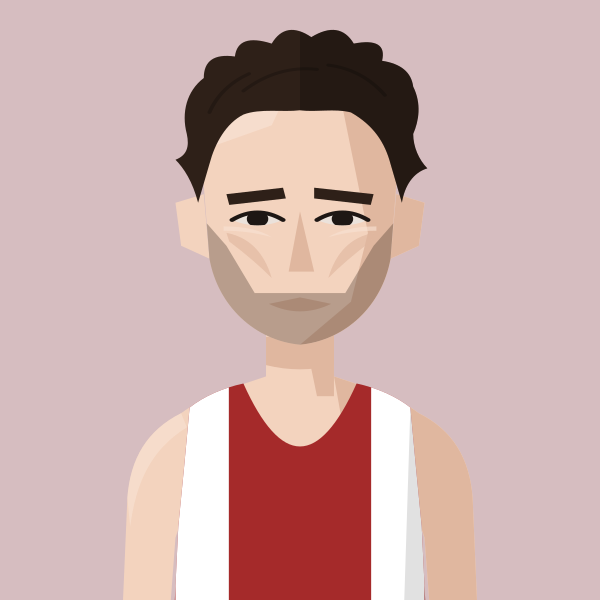
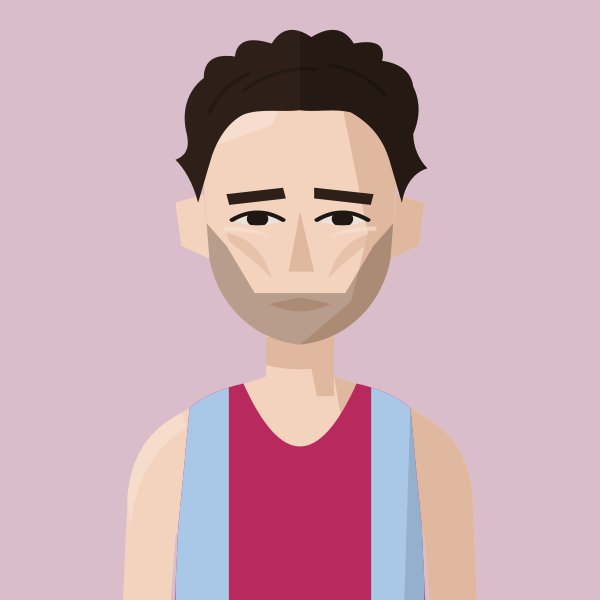
Dorking & Mole Valley kit: raspberry with pale sky-blue side panels (was brick red/white)
Claude-Session: https://claude.ai/code/session_01MgmDWhFqnSSnP4iBLKXUZC

Changed region(s): [[0.27, 0.63, 0.72, 1.0]]

diff --git a/files/index.html b/files/index.html
@@ -556,7 +556,7 @@ const ClubVest=({club,size=20})=>{
     case'AFD':return<><path d={p} fill="#dc2626"/><clipPath id={id}><path d={p}/></clipPath><g clipPath={`url(#${id})`}><rect x="14" y="0" width="3" height="20" fill="#fff"/><rect x="0" y="6" width="20" height="3" fill="#228b22"/></g></>;
     case'SUR':return<><path d={p} fill="#fff"/><clipPath id={id}><path d={p}/></clipPath><g clipPath={`url(#${id})`}><rect x="0" y="7" width="20" height="1" fill="#1a1a1a"/><rect x="0" y="8" width="20" height="3" fill="#3b82f6"/><rect x="0" y="11" width="20" height="1" fill="#1a1a1a"/></g></>;
     case'MIT':return<><path d={p} fill="#2563eb"/><clipPath id={id}><path d={p}/></clipPath><g clipPath={`url(#${id})`}><rect x="0" y="5" width="20" height="1.5" fill="#fff"/><rect x="0" y="8" width="20" height="3" fill="#fff"/><rect x="0" y="12.5" width="20" height="1.5" fill="#fff"/></g></>;
-    case'DMV':return<><path d={p} fill="#A52A2A"/><clipPath id={id}><path d={p}/></clipPath><g clipPath={`url(#${id})`}><rect x="3" y="0" width="3" height="20" fill="#fff"/><rect x="14" y="0" width="3" height="20" fill="#fff"/></g></>;
+    case'DMV':return<><path d={p} fill="#B82A5E"/><clipPath id={id}><path d={p}/></clipPath><g clipPath={`url(#${id})`}><rect x="3" y="0" width="3" height="20" fill="#A9C8E8"/><rect x="14" y="0" width="3" height="20" fill="#A9C8E8"/></g></>;
     case'REI':return<><path d={p} fill="#dc2626"/><clipPath id={id}><path d={p}/></clipPath><g clipPath={`url(#${id})`}><polygon points="0,0 6,0 20,14 20,20 14,20 0,6" fill="#87CEEB"/></g></>;
     case'STR':return<><path d={p} fill="#f4c430"/><text x="10" y="13" textAnchor="middle" fontSize="9" fontWeight="bold" fill="#1a1a1a">S</text></>;
     case'W4H':return<><path d={p} fill="#f4c430"/><clipPath id={id}><path d={p}/></clipPath><g clipPath={`url(#${id})`}><rect x="0" y="8" width="20" height="4" fill="#00CED1"/></g></>;
@@ -672,7 +672,7 @@ return m;})();
 const portraitFile=(name,club)=>{const k=normalizeNameForCompare(name||'').replace(/\s*\(([^)]*)\)$/,(m,c)=>CLUBS[c.toUpperCase()]?'':m);const a=PORTRAITS[k];if(a&&a.club===club)return a.file;const b=PORTRAITS[k+'@'+club];return b?b.file:null;};
 // Athlete header figure: superstar portrait if we have one, else a grey runner in the club vest, else the plain vest icon
 // Changes whenever any portrait changes (set by tools/build_og.py), so browsers fetch fresh images instead of old cached ones
-const PORTRAIT_V='dd9aca5c';const PORTRAIT_WOMEN='abbey-brooke,abbie-bulbulian,alex-gandee,alexa-parker,alexandra-barbour,alice-bridger-morales,alice-crane,alice-martin,alice-smith,amy-clements,anika-schwarze-chintapatla,ava-mcandie,becky-briggs,bethan-goddard,bethanie-murray,betsy-griffiths,billie-mcclosky,caoimhe-nic-fhogartaigh,catherine-bryson,catherine-eastham,catherine-kandie,cathy-ansell,charlotte-griffiths,chloe-tighe,chrissie-wellington,claire-grima,clara-pettit,clare-elms,clare-pauzers,dillan-quinn,dorchie-cockerell,eilidh-hide,elinor-skinner,elizabeth-apsley,elizabeth-stavreski,ella-fennelly,ella-king-powrie,ella-newton,ellie-freeden,eloise-bull,emilie-arnoux,emily-bradley,emily-lowery,emma-gordon,emma-howsham,emma-lord,emma-rowland,evie-warren,felicity-harrison,felicity-hayward,fiona-de-mauny,florence-wiggins,gabby-collison,gabriel-reynolds,gemma-newport,georgie-bruinvels,georgie-furze,georgie-grgec,gina-galbraith,grace-leyland,hannah-english,helena-keenan,holly-nixon,holly-pan,iona-cousland,isabel-bradley,isabel-brinsden,isabelle-pickett,isobel-hodder,jennifer-nandi,jodie-favell,julia-bleasdale,julia-wedmore,juliet-hodder,karen-fenner,karen-xiang,kate-axford,katie-good,katie-snowden,katy-hedgethorne,kitty-shepherd-cross,kristina-popadich,lara-bromilow,lara-mangan,lauren-major,lea-adamson,lisa-bailey,lisa-thomas,lisa-thomas-hw,louise-cooper,lucy-jones,lucy-macalister,lucy-peters,maddie-mastrolonardo,maeve-kenny,margaret-coogan,martina-conner,mary-james,megan-gildea,mimi-corden-lloyd,molly-oconnor,molly-smith,natalie-beadle,natalie-seymour,natasha-lodge,nicola-douglas,nikki-sturzaker,olivia-stillman,pamela-mchutchon,penny-oliver,rebekah-edgar,ruby-carter,ruby-whyte-wilding,ruby-woolfe,samantha-munday,sarah-astin,sarah-grover,sarah-hanley,sarah-holt,sarah-murphy,sarah-palmer,sarah-palmer-ran,sarah-riceman,saron-haileselase,serena-carter,sophie-harris,sophie-tooley,stacey-ward,steph-hewitt,suzie-harvey,suzy-whatmough,teresa-murphy,tilly-heaton,tilly-heaton-bel,vicky-clarke,victoria-barthelmess,victoria-buck';const PORTRAIT_MEN='aaron-wilson,adam-leane,adrian-major,adrien-royer,alan-black,alan-mead,alex-bruce-littlewood,alex-gutteridge,alex-harris,alex-howard,alex-janiaud,alex-lee,alex-lennon,alex-milne,alex-yee,amittai-ben-israel,andrew-green,andrew-penney,andrew-warburton,andy-coley-maud,andy-coley-maud-cc,andy-fyfe,andy-north,andy-paton,andy-weir,angus-lamb,anisse-ismaili,arlo-ludewick,arne-dumez,arthur-peel,ashley-goncalves,barnaby-day,barry-collins,barry-sawyer,ben-clarke,ben-harding,ben-hurley,ben-paviour,ben-pearce,ben-racle,ben-reynolds,ben-scott,benedict-whitby,benjamin-hilson,bernie-ford,bill-kerr,bill-weller,bill-weller-wal,bob-holt,bob-lunnon,bob-rayman,bob-smith,brandon-dewar,brian-gorman,brian-wilder,caleb-hathaway,callum-stewart,cameron-dockerill,cameron-reilly,charles-herrington,charlie-dabbs,charlie-dickinson,charlie-eastaugh,charlie-manning,charlie-pickett,charlie-walker,charlie-wyllie,chris-busaileh,chris-busaileh-hhh,chris-greenwood,chris-keavey,chris-moss,chris-steer,chris-threadgold,christian-lee,christopher-parker,clive-gilby,clive-shippen,colin-high,colin-pearson,conall-mcnally,conall-whelan,dame-dibaba,dan-cliffe,dan-pettitt,daniel-shaw,daniel-wolff,dave-beard,dave-beaver,dave-glassborow,dave-holt,dave-taylor,david-anderson,david-bowers,david-grima,david-north,david-ogden,david-symons,deron-fagan,dick-piotrowski,don-anderson,don-faircloth,don-maclean,doug-maughan,dylan-evans,ed-brewer,ed-gibson,ed-mallett,eddie-herridge,eddie-jodrell,eddie-rolls,edward-chuck,eoin-brady,eoin-molloy,ethan-mccolgan,falilou-kebe,findlay-dyer,finn-johnson,fintan-pearce,frank-tickner,frank-ward,fred-paget,fred-slemeck,freddie-hessian,gary-ribbons,gary-ribbons-ee,gary-staines,gavin-eccles,geoff-biscoe,geoff-jerwood,geoff-north,george-cotton,george-gathercole,george-jackson,george-ogden,gerry-adams,gerry-north,gordon-pearce,graham-macky,harrison-hayman,harry-guttridge,henry-hart,hugo-hewitt,ian-acreman,ian-crowe-wright,ian-ellwood,ian-harkness,indy-barnes,isaac-lutaya,isaac-parker,jack-brotchie,jack-dickson,jack-dormer,jack-hampshire,jack-harrison,jack-hobden,jack-kavanagh,jack-millar,jack-ramm,jack-woods,jacob-brockmann,james-bartram,james-blackwood,james-estall,james-ewing,james-hancock,james-hoad,james-kelly,james-mcmullan,james-murray,james-nutt,james-preston,james-roberts,james-stockings,jamie-crowe,jamie-parkinson,jared-martin,jean-paul-wright,jeff-cunningham,jeremy-dempsey,jermaine-mays,jerry-watson,jim-allchin,jim-rimmer,joe-english,joe-hartley,john-baker,john-bicourt,john-bromley,john-davies,john-dear,john-foss,john-foxall,john-gilbert,john-gladwin,john-hutchins,john-kendall,john-kimaiyo,john-lee,john-lethbridge,john-mather,john-moore,john-roberts,john-sanderson,john-stow,john-sullivan,john-thresher,jon-hobbs,jon-pepper,jon-pepper-slh,jon-phillips,jon-solly,jonathan-cocker,jonathan-collier,jonathan-cornish,jonathan-tipper,jonathon-blackledge,jonny-scott,jordan-weaver,josh-mitchell,josh-snow,josh-trigwell,junior-galley,justin-chaston,kassa-tadesse,keith-newton,kevin-nash,kevin-quinn,kevin-sturman,kieran-barnes,knut-hegvold,knut-hegvold-bel,larry-ryan,lee-lintern,lewis-lloyd,liam-burthem,lionel-mann,lloyd-kempson,luke-caldwell,mack-downie,malachi-byansi,marcello-bizio,marco-mazzotta,mark-anderson,mark-miles,mark-sinclair,mark-tennyson,mark-waller,martin-dent,martin-lake,martin-lewington,martin-shore,mathew-speed,matt-chaston,matt-wood,matthew-edgar,matthew-houchell,matthew-varley,max-bloor,max-heyden,max-milarvie,max-nicholls,michael-baker,michael-mccarthy,mick-woods,mike-beevor,mike-boyle,mike-cummings,mike-farmery,mike-fuller,mike-hayes,mike-kortenray,mike-nouch,monty-hudson,morgan-roberts,neil-chisholm,neil-phillips,neil-speaight,neil-wilson,nic-lukies,nick-acfield,nick-altmann,nick-bester,nick-bester-hhh,nick-goolab,nick-lightfoot,nick-morris,nick-torry,noah-fernandez,norman-stairs,oli-carrington,oliver-fox,oliver-reynolds,oliver-young,ollie-foote,ollie-garrod,olly-buck,owen-hind,paddy-roddy,pancho-panchev,paskar-owor,pat-newell,patrick-mcdougall,paul-calver,paul-freary,paul-magner,paul-pollock,pete-carton,pete-gardner,peter-clarke,peter-giles,peter-giles-thh,peter-lighting,phil-carstairs,phil-sanders,phil-sesemann,phil-swinburn,phil-wicks,phil-woodford-smith,ralph-street,ranjit-bhatia,ray-foley,rian-mccawley,richard-ashe,richard-langley,richard-mcdowell,richard-ollington,richard-partridge,richard-sun,richard-ward,rob-armstrong,rob-kelly,robert-elphick,robert-laing,robert-sesemann,robin-boon,robin-hudson,roger-alsop,roger-alsop-bel,ron-linstead,ronan-tanguy,rory-mcmahon,rory-orsborn,rowan-board,russell-dessaix-chin,ryan-hickey,sam-bramwell,sam-gebreselassie,sam-peters,sam-sommerville,sam-tyas,samuel-dames,sean-cordon,sebastian-anthony,simon-coombes,simon-coppard,simon-holmes,simon-rayner,simon-rayner-hw,simon-waterhouse,simon-williams,simon-wurr,sonny-nicoll,spencer-barden,stephen-mcleod,stephen-sharp,steve-gardner,steve-smythe,steve-smythe-hhh,stuart-major,stuart-major-thh,stuart-mccallum,stuart-paton,thomas-dugre,thomas-gandee,thomas-gardner,thomas-renshaw,tim-eglen,tim-watson,toby-cooke,tom-austin,tom-conlon,tom-davies,tom-gifford,tom-jervis,tom-lole,tom-south,tom-thornley,tony-binda,tony-fairclough,tony-harran,trevor-hart,valentin-rigori,vic-maughan,will-cockerell,will-marshall,william-gardner,yacin-yusuf,zach-nolan';
+const PORTRAIT_V='25c48566';const PORTRAIT_WOMEN='abbey-brooke,abbie-bulbulian,alex-gandee,alexa-parker,alexandra-barbour,alice-bridger-morales,alice-crane,alice-martin,alice-smith,amy-clements,anika-schwarze-chintapatla,ava-mcandie,becky-briggs,bethan-goddard,bethanie-murray,betsy-griffiths,billie-mcclosky,caoimhe-nic-fhogartaigh,catherine-bryson,catherine-eastham,catherine-kandie,cathy-ansell,charlotte-griffiths,chloe-tighe,chrissie-wellington,claire-grima,clara-pettit,clare-elms,clare-pauzers,dillan-quinn,dorchie-cockerell,eilidh-hide,elinor-skinner,elizabeth-apsley,elizabeth-stavreski,ella-fennelly,ella-king-powrie,ella-newton,ellie-freeden,eloise-bull,emilie-arnoux,emily-bradley,emily-lowery,emma-gordon,emma-howsham,emma-lord,emma-rowland,evie-warren,felicity-harrison,felicity-hayward,fiona-de-mauny,florence-wiggins,gabby-collison,gabriel-reynolds,gemma-newport,georgie-bruinvels,georgie-furze,georgie-grgec,gina-galbraith,grace-leyland,hannah-english,helena-keenan,holly-nixon,holly-pan,iona-cousland,isabel-bradley,isabel-brinsden,isabelle-pickett,isobel-hodder,jennifer-nandi,jodie-favell,julia-bleasdale,julia-wedmore,juliet-hodder,karen-fenner,karen-xiang,kate-axford,katie-good,katie-snowden,katy-hedgethorne,kitty-shepherd-cross,kristina-popadich,lara-bromilow,lara-mangan,lauren-major,lea-adamson,lisa-bailey,lisa-thomas,lisa-thomas-hw,louise-cooper,lucy-jones,lucy-macalister,lucy-peters,maddie-mastrolonardo,maeve-kenny,margaret-coogan,martina-conner,mary-james,megan-gildea,mimi-corden-lloyd,molly-oconnor,molly-smith,natalie-beadle,natalie-seymour,natasha-lodge,nicola-douglas,nikki-sturzaker,olivia-stillman,pamela-mchutchon,penny-oliver,rebekah-edgar,ruby-carter,ruby-whyte-wilding,ruby-woolfe,samantha-munday,sarah-astin,sarah-grover,sarah-hanley,sarah-holt,sarah-murphy,sarah-palmer,sarah-palmer-ran,sarah-riceman,saron-haileselase,serena-carter,sophie-harris,sophie-tooley,stacey-ward,steph-hewitt,suzie-harvey,suzy-whatmough,teresa-murphy,tilly-heaton,tilly-heaton-bel,vicky-clarke,victoria-barthelmess,victoria-buck';const PORTRAIT_MEN='aaron-wilson,adam-leane,adrian-major,adrien-royer,alan-black,alan-mead,alex-bruce-littlewood,alex-gutteridge,alex-harris,alex-howard,alex-janiaud,alex-lee,alex-lennon,alex-milne,alex-yee,amittai-ben-israel,andrew-green,andrew-penney,andrew-warburton,andy-coley-maud,andy-coley-maud-cc,andy-fyfe,andy-north,andy-paton,andy-weir,angus-lamb,anisse-ismaili,arlo-ludewick,arne-dumez,arthur-peel,ashley-goncalves,barnaby-day,barry-collins,barry-sawyer,ben-clarke,ben-harding,ben-hurley,ben-paviour,ben-pearce,ben-racle,ben-reynolds,ben-scott,benedict-whitby,benjamin-hilson,bernie-ford,bill-kerr,bill-weller,bill-weller-wal,bob-holt,bob-lunnon,bob-rayman,bob-smith,brandon-dewar,brian-gorman,brian-wilder,caleb-hathaway,callum-stewart,cameron-dockerill,cameron-reilly,charles-herrington,charlie-dabbs,charlie-dickinson,charlie-eastaugh,charlie-manning,charlie-pickett,charlie-walker,charlie-wyllie,chris-busaileh,chris-busaileh-hhh,chris-greenwood,chris-keavey,chris-moss,chris-steer,chris-threadgold,christian-lee,christopher-parker,clive-gilby,clive-shippen,colin-high,colin-pearson,conall-mcnally,conall-whelan,dame-dibaba,dan-cliffe,dan-pettitt,daniel-shaw,daniel-wolff,dave-beard,dave-beaver,dave-glassborow,dave-holt,dave-taylor,david-anderson,david-bowers,david-grima,david-north,david-ogden,david-symons,deron-fagan,dick-piotrowski,don-anderson,don-faircloth,don-maclean,doug-maughan,dylan-evans,ed-brewer,ed-gibson,ed-mallett,eddie-herridge,eddie-jodrell,eddie-rolls,edward-chuck,eoin-brady,eoin-molloy,ethan-mccolgan,falilou-kebe,findlay-dyer,finn-johnson,fintan-pearce,frank-tickner,frank-ward,fred-paget,fred-slemeck,freddie-hessian,gary-ribbons,gary-ribbons-ee,gary-staines,gavin-eccles,geoff-biscoe,geoff-jerwood,geoff-north,george-cotton,george-gathercole,george-jackson,george-ogden,gerry-adams,gerry-north,gordon-pearce,graham-macky,harrison-hayman,harry-guttridge,henry-hart,hugo-hewitt,ian-acreman,ian-crowe-wright,ian-ellwood,ian-harkness,indy-barnes,isaac-lutaya,isaac-parker,jack-brotchie,jack-dickson,jack-dormer,jack-hampshire,jack-harrison,jack-hobden,jack-kavanagh,jack-millar,jack-ramm,jack-woods,jacob-brockmann,james-bartram,james-blackwood,james-estall,james-ewing,james-hancock,james-hoad,james-kelly,james-mcmullan,james-murray,james-nutt,james-preston,james-roberts,james-stockings,jamie-crowe,jamie-parkinson,jared-martin,jean-paul-wright,jeff-cunningham,jeremy-dempsey,jermaine-mays,jerry-watson,jim-allchin,jim-rimmer,joe-english,joe-hartley,john-baker,john-bicourt,john-bromley,john-davies,john-dear,john-foss,john-foxall,john-gilbert,john-gladwin,john-hutchins,john-kendall,john-kimaiyo,john-lee,john-lethbridge,john-mather,john-moore,john-roberts,john-sanderson,john-stow,john-sullivan,john-thresher,jon-hobbs,jon-pepper,jon-pepper-slh,jon-phillips,jon-solly,jonathan-cocker,jonathan-collier,jonathan-cornish,jonathan-tipper,jonathon-blackledge,jonny-scott,jordan-weaver,josh-mitchell,josh-snow,josh-trigwell,junior-galley,justin-chaston,kassa-tadesse,keith-newton,kevin-nash,kevin-quinn,kevin-sturman,kieran-barnes,knut-hegvold,knut-hegvold-bel,larry-ryan,lee-lintern,lewis-lloyd,liam-burthem,lionel-mann,lloyd-kempson,luke-caldwell,mack-downie,malachi-byansi,marcello-bizio,marco-mazzotta,mark-anderson,mark-miles,mark-sinclair,mark-tennyson,mark-waller,martin-dent,martin-lake,martin-lewington,martin-shore,mathew-speed,matt-chaston,matt-wood,matthew-edgar,matthew-houchell,matthew-varley,max-bloor,max-heyden,max-milarvie,max-nicholls,michael-baker,michael-mccarthy,mick-woods,mike-beevor,mike-boyle,mike-cummings,mike-farmery,mike-fuller,mike-hayes,mike-kortenray,mike-nouch,monty-hudson,morgan-roberts,neil-chisholm,neil-phillips,neil-speaight,neil-wilson,nic-lukies,nick-acfield,nick-altmann,nick-bester,nick-bester-hhh,nick-goolab,nick-lightfoot,nick-morris,nick-torry,noah-fernandez,norman-stairs,oli-carrington,oliver-fox,oliver-reynolds,oliver-young,ollie-foote,ollie-garrod,olly-buck,owen-hind,paddy-roddy,pancho-panchev,paskar-owor,pat-newell,patrick-mcdougall,paul-calver,paul-freary,paul-magner,paul-pollock,pete-carton,pete-gardner,peter-clarke,peter-giles,peter-giles-thh,peter-lighting,phil-carstairs,phil-sanders,phil-sesemann,phil-swinburn,phil-wicks,phil-woodford-smith,ralph-street,ranjit-bhatia,ray-foley,rian-mccawley,richard-ashe,richard-langley,richard-mcdowell,richard-ollington,richard-partridge,richard-sun,richard-ward,rob-armstrong,rob-kelly,robert-elphick,robert-laing,robert-sesemann,robin-boon,robin-hudson,roger-alsop,roger-alsop-bel,ron-linstead,ronan-tanguy,rory-mcmahon,rory-orsborn,rowan-board,russell-dessaix-chin,ryan-hickey,sam-bramwell,sam-gebreselassie,sam-peters,sam-sommerville,sam-tyas,samuel-dames,sean-cordon,sebastian-anthony,simon-coombes,simon-coppard,simon-holmes,simon-rayner,simon-rayner-hw,simon-waterhouse,simon-williams,simon-wurr,sonny-nicoll,spencer-barden,stephen-mcleod,stephen-sharp,steve-gardner,steve-smythe,steve-smythe-hhh,stuart-major,stuart-major-thh,stuart-mccallum,stuart-paton,thomas-dugre,thomas-gandee,thomas-gardner,thomas-renshaw,tim-eglen,tim-watson,toby-cooke,tom-austin,tom-conlon,tom-davies,tom-gifford,tom-jervis,tom-lole,tom-south,tom-thornley,tony-binda,tony-fairclough,tony-harran,trevor-hart,valentin-rigori,vic-maughan,will-cockerell,will-marshall,william-gardner,yacin-yusuf,zach-nolan';
 const AthletePortrait=({name,club,w,fill,onClick})=>{const[failed,setFailed]=useState(false);const file=portraitFile(name,club);const src=file?`/portraits/athletes/${file}.svg?v=${PORTRAIT_V}`:PORTRAIT_CLUBS.has(club)?`/portraits/clubs/${club.replace(/\//g,'').replace(/&/g,'and')}.svg?v=${PORTRAIT_V}`:null;if(!src||failed)return<div onClick={onClick} className={onClick?'cursor-pointer':''}><ClubShield club={club} size={w}/></div>;const h=Math.round(w*148/126),ih=Math.round(w*1.4);if(fill)return<div onClick={onClick} className="cursor-pointer" style={{alignSelf:'stretch',minHeight:h,aspectRatio:'126 / 148',flexShrink:0,position:'relative',borderRadius:4,overflow:'hidden'}}><img src={src} alt={file?`Portrait of ${name.replace(/\s*\([^)]*\)$/,'')}`:`Runner in ${CLUBS[club]?.name||club} vest`} style={{position:'absolute',top:0,left:0,display:'block',width:'100%',height:'auto'}} onError={()=>setFailed(true)}/></div>;return<div style={{width:w,height:h,borderRadius:4,overflow:'hidden',flexShrink:0}}><img src={src} alt={file?`Portrait of ${name.replace(/\s*\([^)]*\)$/,'')}`:`Runner in ${CLUBS[club]?.name||club} vest`} width={w} height={ih} style={{display:'block',width:w,height:ih}} onError={()=>setFailed(true)}/></div>;};
 const getClubVestSvg=(club)=>{
   const p="M3 0 L6 0 Q7 4 10 5 Q13 4 14 0 L17 0 L17 20 L3 20 Z";
@@ -700,7 +700,7 @@ const getClubVestSvg=(club)=>{
     'AFD':`<path d="${p}" fill="#dc2626"/><defs><clipPath id="${id}"><path d="${p}"/></clipPath></defs><g clip-path="url(#${id})"><rect x="14" y="0" width="3" height="20" fill="#fff"/><rect x="0" y="6" width="20" height="3" fill="#228b22"/></g>`,
     'SUR':`<path d="${p}" fill="#fff"/><defs><clipPath id="${id}"><path d="${p}"/></clipPath></defs><g clip-path="url(#${id})"><rect x="0" y="7" width="20" height="1" fill="#1a1a1a"/><rect x="0" y="8" width="20" height="3" fill="#3b82f6"/><rect x="0" y="11" width="20" height="1" fill="#1a1a1a"/></g>`,
     'MIT':`<path d="${p}" fill="#2563eb"/><defs><clipPath id="${id}"><path d="${p}"/></clipPath></defs><g clip-path="url(#${id})"><rect x="0" y="5" width="20" height="1.5" fill="#fff"/><rect x="0" y="8" width="20" height="3" fill="#fff"/><rect x="0" y="12.5" width="20" height="1.5" fill="#fff"/></g>`,
-    'DMV':`<path d="${p}" fill="#A52A2A"/><defs><clipPath id="${id}"><path d="${p}"/></clipPath></defs><g clip-path="url(#${id})"><rect x="3" y="0" width="3" height="20" fill="#fff"/><rect x="14" y="0" width="3" height="20" fill="#fff"/></g>`,
+    'DMV':`<path d="${p}" fill="#B82A5E"/><defs><clipPath id="${id}"><path d="${p}"/></clipPath></defs><g clip-path="url(#${id})"><rect x="3" y="0" width="3" height="20" fill="#A9C8E8"/><rect x="14" y="0" width="3" height="20" fill="#A9C8E8"/></g>`,
     'REI':`<path d="${p}" fill="#dc2626"/><defs><clipPath id="${id}"><path d="${p}"/></clipPath></defs><g clip-path="url(#${id})"><polygon points="0,0 6,0 20,14 20,20 14,20 0,6" fill="#87CEEB"/></g>`,
     'STR':`<path d="${p}" fill="#f4c430"/><text x="10" y="13" text-anchor="middle" font-size="9" font-weight="bold" fill="#1a1a1a">S</text>`,
     'W4H':`<path d="${p}" fill="#f4c430"/><defs><clipPath id="${id}"><path d="${p}"/></clipPath></defs><g clip-path="url(#${id})"><rect x="0" y="8" width="20" height="4" fill="#00CED1"/></g>`,
@@ -1246,7 +1246,7 @@ const PositionChart=({raceHistory,highlightIdx,setHighlightIdx,setView,clubCode}
     'FUL':['#000','#fff'],       // black/white
     'CRY':['#87ceeb','#fff'],    // light blue/white
     'CAM':['#000080','#87ceeb'], // navy/light blue
-    'DMV':['#006400','#fff'],    // green/white
+    'DMV':['#B82A5E','#A9C8E8'], // raspberry/sky blue
     'BOH':['#ff0000','#fff'],    // red/white
     'VAC':['#fff','#000'],       // white/black
   };
@@ -1640,7 +1640,7 @@ const ChartRoomView=({setView,data,menData,womenData})=>{
     {code:'REI',color:'#e11d48'},{code:'E&E',color:'#b91c1c'},{code:'MIT',color:'#6366f1'},
     {code:'DUL',color:'#a855f7'},{code:'BOH',color:'#f97316'},{code:'C/C',color:'#0891b2'},
     {code:'WOK',color:'#ea580c'},{code:'STR',color:'#84cc16'},{code:'MPA',color:'#1e40af'},
-    {code:'SUR',color:'#64748b'},{code:'DMV',color:'#92400e'},{code:'W4H',color:'#06b6d4'},
+    {code:'SUR',color:'#64748b'},{code:'DMV',color:'#B82A5E'},{code:'W4H',color:'#06b6d4'},
     {code:'OME',color:'#d946ef'},{code:'HOL',color:'#1e40af'},{code:'FUL',color:'#171717'},
     {code:'SOC',color:'#65a30d'},{code:'W/W',color:'#f43f5e'},{code:'K&P',color:'#8b5cf6'},
     {code:'BAC',color:'#78716c'},{code:'S&D',color:'#fb923c'}
@@ -1651,7 +1651,7 @@ const ChartRoomView=({setView,data,menData,womenData})=>{
     {code:'BEL',color:'#7A001D'},{code:'THH',color:'#3c403a'},{code:'KEN',color:'#2a4d7a'},
     {code:'HHH',color:'#dc2626'},{code:'H/W',color:'#ca8a04'},{code:'G&G',color:'#16a34a'},
     {code:'SLH',color:'#be185d'},{code:'HOL',color:'#1e40af'},{code:'DUL',color:'#a855f7'},{code:'C/C',color:'#0891b2'},
-    {code:'RAN',color:'#0369a1'},{code:'CRO',color:'#525252'},{code:'DMV',color:'#92400e'},
+    {code:'RAN',color:'#0369a1'},{code:'CRO',color:'#525252'},{code:'DMV',color:'#B82A5E'},
     {code:'E&E',color:'#b91c1c'},{code:'FUL',color:'#171717'},{code:'REI',color:'#e11d48'},
     {code:'SOC',color:'#65a30d'},{code:'WOK',color:'#ea580c'}
   ];
@@ -3640,7 +3640,7 @@ const HomeView=({setView,data,initialSeason,division='men',divisionConfig})=>{
         {code:'BEL',color:'#7A001D'},{code:'THH',color:'#3c403a'},{code:'KEN',color:'#2a4d7a'},
         {code:'HHH',color:'#dc2626'},{code:'H/W',color:'#ca8a04'},{code:'G&G',color:'#16a34a'},
         {code:'SLH',color:'#be185d'},{code:'HOL',color:'#1e40af'},{code:'DUL',color:'#7c3aed'},{code:'C/C',color:'#0891b2'},
-        {code:'RAN',color:'#0369a1'},{code:'CRO',color:'#525252'},{code:'DMV',color:'#92400e'},
+        {code:'RAN',color:'#0369a1'},{code:'CRO',color:'#525252'},{code:'DMV',color:'#B82A5E'},
         {code:'E&E',color:'#b91c1c'},{code:'FUL',color:'#171717'},{code:'REI',color:'#e11d48'},
         {code:'SOC',color:'#65a30d'},{code:'WOK',color:'#ea580c'},{code:'STR',color:'#facc15'},{code:'W4H',color:'#4ade80'}
       ];

diff --git a/files/form-guide/2026-27-match-1-men.html b/files/form-guide/2026-27-match-1-men.html
@@ -331,7 +331,7 @@ const getClubVestSvg=(club)=>{
     'AFD':`<path d="${p}" fill="#dc2626"/><defs><clipPath id="${id}"><path d="${p}"/></clipPath></defs><g clip-path="url(#${id})"><rect x="14" y="0" width="3" height="20" fill="#fff"/><rect x="0" y="6" width="20" height="3" fill="#228b22"/></g>`,
     'SUR':`<path d="${p}" fill="#fff"/><defs><clipPath id="${id}"><path d="${p}"/></clipPath></defs><g clip-path="url(#${id})"><rect x="0" y="7" width="20" height="1" fill="#1a1a1a"/><rect x="0" y="8" width="20" height="3" fill="#3b82f6"/><rect x="0" y="11" width="20" height="1" fill="#1a1a1a"/></g>`,
     'MIT':`<path d="${p}" fill="#2563eb"/><defs><clipPath id="${id}"><path d="${p}"/></clipPath></defs><g clip-path="url(#${id})"><rect x="0" y="5" width="20" height="1.5" fill="#fff"/><rect x="0" y="8" width="20" height="3" fill="#fff"/><rect x="0" y="12.5" width="20" height="1.5" fill="#fff"/></g>`,
-    'DMV':`<path d="${p}" fill="#A52A2A"/><defs><clipPath id="${id}"><path d="${p}"/></clipPath></defs><g clip-path="url(#${id})"><rect x="3" y="0" width="3" height="20" fill="#fff"/><rect x="14" y="0" width="3" height="20" fill="#fff"/></g>`,
+    'DMV':`<path d="${p}" fill="#B82A5E"/><defs><clipPath id="${id}"><path d="${p}"/></clipPath></defs><g clip-path="url(#${id})"><rect x="3" y="0" width="3" height="20" fill="#A9C8E8"/><rect x="14" y="0" width="3" height="20" fill="#A9C8E8"/></g>`,
     'REI':`<path d="${p}" fill="#dc2626"/><defs><clipPath id="${id}"><path d="${p}"/></clipPath></defs><g clip-path="url(#${id})"><polygon points="0,0 6,0 20,14 20,20 14,20 0,6" fill="#87CEEB"/></g>`,
     'STR':`<path d="${p}" fill="#f4c430"/><text x="10" y="13" text-anchor="middle" font-size="9" font-weight="bold" fill="#1a1a1a">S</text>`,
     'W4H':`<path d="${p}" fill="#f4c430"/><defs><clipPath id="${id}"><path d="${p}"/></clipPath></defs><g clip-path="url(#${id})"><rect x="0" y="8" width="20" height="4" fill="#00CED1"/></g>`,

diff --git a/files/form-guide/2025-26-match-1-men.html b/files/form-guide/2025-26-match-1-men.html
@@ -331,7 +331,7 @@ const getClubVestSvg=(club)=>{
     'VAC':`<path d="${p}" fill="#fff"/><defs><clipPath id="${id}"><path d="${p}"/></clipPath></defs><g clip-path="url(#${id})"><rect x="0" y="8" width="20" height="3" fill="#1a1a1a"/></g>`,
     'SUR':`<path d="${p}" fill="#fff"/><defs><clipPath id="${id}"><path d="${p}"/></clipPath></defs><g clip-path="url(#${id})"><rect x="0" y="7" width="20" height="1" fill="#1a1a1a"/><rect x="0" y="8" width="20" height="3" fill="#3b82f6"/><rect x="0" y="11" width="20" height="1" fill="#1a1a1a"/></g>`,
     'MIT':`<path d="${p}" fill="#2563eb"/><defs><clipPath id="${id}"><path d="${p}"/></clipPath></defs><g clip-path="url(#${id})"><rect x="0" y="5" width="20" height="1.5" fill="#fff"/><rect x="0" y="8" width="20" height="3" fill="#fff"/><rect x="0" y="12.5" width="20" height="1.5" fill="#fff"/></g>`,
-    'DMV':`<path d="${p}" fill="#A52A2A"/><defs><clipPath id="${id}"><path d="${p}"/></clipPath></defs><g clip-path="url(#${id})"><rect x="3" y="0" width="3" height="20" fill="#fff"/><rect x="14" y="0" width="3" height="20" fill="#fff"/></g>`,
+    'DMV':`<path d="${p}" fill="#B82A5E"/><defs><clipPath id="${id}"><path d="${p}"/></clipPath></defs><g clip-path="url(#${id})"><rect x="3" y="0" width="3" height="20" fill="#A9C8E8"/><rect x="14" y="0" width="3" height="20" fill="#A9C8E8"/></g>`,
     'REI':`<path d="${p}" fill="#dc2626"/><defs><clipPath id="${id}"><path d="${p}"/></clipPath></defs><g clip-path="url(#${id})"><polygon points="0,0 6,0 20,14 20,20 14,20 0,6" fill="#87CEEB"/></g>`,
     'STR':`<path d="${p}" fill="#f4c430"/><text x="10" y="13" text-anchor="middle" font-size="9" font-weight="bold" fill="#1a1a1a">S</text>`,
     'W4H':`<path d="${p}" fill="#f4c430"/><defs><clipPath id="${id}"><path d="${p}"/></clipPath></defs><g clip-path="url(#${id})"><rect x="0" y="8" width="20" height="4" fill="#00CED1"/></g>`,

diff --git a/files/form-guide/2025-26-match-1-women.html b/files/form-guide/2025-26-match-1-women.html
@@ -331,7 +331,7 @@ const getClubVestSvg=(club)=>{
     'VAC':`<path d="${p}" fill="#fff"/><defs><clipPath id="${id}"><path d="${p}"/></clipPath></defs><g clip-path="url(#${id})"><rect x="0" y="8" width="20" height="3" fill="#1a1a1a"/></g>`,
     'SUR':`<path d="${p}" fill="#fff"/><defs><clipPath id="${id}"><path d="${p}"/></clipPath></defs><g clip-path="url(#${id})"><rect x="0" y="7" width="20" height="1" fill="#1a1a1a"/><rect x="0" y="8" width="20" height="3" fill="#3b82f6"/><rect x="0" y="11" width="20" height="1" fill="#1a1a1a"/></g>`,
     'MIT':`<path d="${p}" fill="#2563eb"/><defs><clipPath id="${id}"><path d="${p}"/></clipPath></defs><g clip-path="url(#${id})"><rect x="0" y="5" width="20" height="1.5" fill="#fff"/><rect x="0" y="8" width="20" height="3" fill="#fff"/><rect x="0" y="12.5" width="20" height="1.5" fill="#fff"/></g>`,
-    'DMV':`<path d="${p}" fill="#A52A2A"/><defs><clipPath id="${id}"><path d="${p}"/></clipPath></defs><g clip-path="url(#${id})"><rect x="3" y="0" width="3" height="20" fill="#fff"/><rect x="14" y="0" width="3" height="20" fill="#fff"/></g>`,
+    'DMV':`<path d="${p}" fill="#B82A5E"/><defs><clipPath id="${id}"><path d="${p}"/></clipPath></defs><g clip-path="url(#${id})"><rect x="3" y="0" width="3" height="20" fill="#A9C8E8"/><rect x="14" y="0" width="3" height="20" fill="#A9C8E8"/></g>`,
     'REI':`<path d="${p}" fill="#dc2626"/><defs><clipPath id="${id}"><path d="${p}"/></clipPath></defs><g clip-path="url(#${id})"><polygon points="0,0 6,0 20,14 20,20 14,20 0,6" fill="#87CEEB"/></g>`,
     'STR':`<path d="${p}" fill="#f4c430"/><text x="10" y="13" text-anchor="middle" font-size="9" font-weight="bold" fill="#1a1a1a">S</text>`,
     'W4H':`<path d="${p}" fill="#f4c430"/><defs><clipPath id="${id}"><path d="${p}"/></clipPath></defs><g clip-path="url(#${id})"><rect x="0" y="8" width="20" height="4" fill="#00CED1"/></g>`,

diff --git a/files/form-guide/2025-26-match-2-men.html b/files/form-guide/2025-26-match-2-men.html
@@ -331,7 +331,7 @@ const getClubVestSvg=(club)=>{
     'VAC':`<path d="${p}" fill="#fff"/><defs><clipPath id="${id}"><path d="${p}"/></clipPath></defs><g clip-path="url(#${id})"><rect x="0" y="8" width="20" height="3" fill="#1a1a1a"/></g>`,
     'SUR':`<path d="${p}" fill="#fff"/><defs><clipPath id="${id}"><path d="${p}"/></clipPath></defs><g clip-path="url(#${id})"><rect x="0" y="7" width="20" height="1" fill="#1a1a1a"/><rect x="0" y="8" width="20" height="3" fill="#3b82f6"/><rect x="0" y="11" width="20" height="1" fill="#1a1a1a"/></g>`,
     'MIT':`<path d="${p}" fill="#2563eb"/><defs><clipPath id="${id}"><path d="${p}"/></clipPath></defs><g clip-path="url(#${id})"><rect x="0" y="5" width="20" height="1.5" fill="#fff"/><rect x="0" y="8" width="20" height="3" fill="#fff"/><rect x="0" y="12.5" width="20" height="1.5" fill="#fff"/></g>`,
-    'DMV':`<path d="${p}" fill="#A52A2A"/><defs><clipPath id="${id}"><path d="${p}"/></clipPath></defs><g clip-path="url(#${id})"><rect x="3" y="0" width="3" height="20" fill="#fff"/><rect x="14" y="0" width="3" height="20" fill="#fff"/></g>`,
+    'DMV':`<path d="${p}" fill="#B82A5E"/><defs><clipPath id="${id}"><path d="${p}"/></clipPath></defs><g clip-path="url(#${id})"><rect x="3" y="0" width="3" height="20" fill="#A9C8E8"/><rect x="14" y="0" width="3" height="20" fill="#A9C8E8"/></g>`,
     'REI':`<path d="${p}" fill="#dc2626"/><defs><clipPath id="${id}"><path d="${p}"/></clipPath></defs><g clip-path="url(#${id})"><polygon points="0,0 6,0 20,14 20,20 14,20 0,6" fill="#87CEEB"/></g>`,
     'STR':`<path d="${p}" fill="#f4c430"/><text x="10" y="13" text-anchor="middle" font-size="9" font-weight="bold" fill="#1a1a1a">S</text>`,
     'W4H':`<path d="${p}" fill="#f4c430"/><defs><clipPath id="${id}"><path d="${p}"/></clipPath></defs><g clip-path="url(#${id})"><rect x="0" y="8" width="20" height="4" fill="#00CED1"/></g>`,

diff --git a/files/form-guide/2025-26-match-2-women.html b/files/form-guide/2025-26-match-2-women.html
@@ -331,7 +331,7 @@ const getClubVestSvg=(club)=>{
     'VAC':`<path d="${p}" fill="#fff"/><defs><clipPath id="${id}"><path d="${p}"/></clipPath></defs><g clip-path="url(#${id})"><rect x="0" y="8" width="20" height="3" fill="#1a1a1a"/></g>`,
     'SUR':`<path d="${p}" fill="#fff"/><defs><clipPath id="${id}"><path d="${p}"/></clipPath></defs><g clip-path="url(#${id})"><rect x="0" y="7" width="20" height="1" fill="#1a1a1a"/><rect x="0" y="8" width="20" height="3" fill="#3b82f6"/><rect x="0" y="11" width="20" height="1" fill="#1a1a1a"/></g>`,
     'MIT':`<path d="${p}" fill="#2563eb"/><defs><clipPath id="${id}"><path d="${p}"/></clipPath></defs><g clip-path="url(#${id})"><rect x="0" y="5" width="20" height="1.5" fill="#fff"/><rect x="0" y="8" width="20" height="3" fill="#fff"/><rect x="0" y="12.5" width="20" height="1.5" fill="#fff"/></g>`,
-    'DMV':`<path d="${p}" fill="#A52A2A"/><defs><clipPath id="${id}"><path d="${p}"/></clipPath></defs><g clip-path="url(#${id})"><rect x="3" y="0" width="3" height="20" fill="#fff"/><rect x="14" y="0" width="3" height="20" fill="#fff"/></g>`,
+    'DMV':`<path d="${p}" fill="#B82A5E"/><defs><clipPath id="${id}"><path d="${p}"/></clipPath></defs><g clip-path="url(#${id})"><rect x="3" y="0" width="3" height="20" fill="#A9C8E8"/><rect x="14" y="0" width="3" height="20" fill="#A9C8E8"/></g>`,
     'REI':`<path d="${p}" fill="#dc2626"/><defs><clipPath id="${id}"><path d="${p}"/></clipPath></defs><g clip-path="url(#${id})"><polygon points="0,0 6,0 20,14 20,20 14,20 0,6" fill="#87CEEB"/></g>`,
     'STR':`<path d="${p}" fill="#f4c430"/><text x="10" y="13" text-anchor="middle" font-size="9" font-weight="bold" fill="#1a1a1a">S</text>`,
     'W4H':`<path d="${p}" fill="#f4c430"/><defs><clipPath id="${id}"><path d="${p}"/></clipPath></defs><g clip-path="url(#${id})"><rect x="0" y="8" width="20" height="4" fill="#00CED1"/></g>`,

diff --git a/files/form-guide/2025-26-match-3-men.html b/files/form-guide/2025-26-match-3-men.html
@@ -331,7 +331,7 @@ const getClubVestSvg=(club)=>{
     'VAC':`<path d="${p}" fill="#fff"/><defs><clipPath id="${id}"><path d="${p}"/></clipPath></defs><g clip-path="url(#${id})"><rect x="0" y="8" width="20" height="3" fill="#1a1a1a"/></g>`,
     'SUR':`<path d="${p}" fill="#fff"/><defs><clipPath id="${id}"><path d="${p}"/></clipPath></defs><g clip-path="url(#${id})"><rect x="0" y="7" width="20" height="1" fill="#1a1a1a"/><rect x="0" y="8" width="20" height="3" fill="#3b82f6"/><rect x="0" y="11" width="20" height="1" fill="#1a1a1a"/></g>`,
     'MIT':`<path d="${p}" fill="#2563eb"/><defs><clipPath id="${id}"><path d="${p}"/></clipPath></defs><g clip-path="url(#${id})"><rect x="0" y="5" width="20" height="1.5" fill="#fff"/><rect x="0" y="8" width="20" height="3" fill="#fff"/><rect x="0" y="12.5" width="20" height="1.5" fill="#fff"/></g>`,
-    'DMV':`<path d="${p}" fill="#A52A2A"/><defs><clipPath id="${id}"><path d="${p}"/></clipPath></defs><g clip-path="url(#${id})"><rect x="3" y="0" width="3" height="20" fill="#fff"/><rect x="14" y="0" width="3" height="20" fill="#fff"/></g>`,
+    'DMV':`<path d="${p}" fill="#B82A5E"/><defs><clipPath id="${id}"><path d="${p}"/></clipPath></defs><g clip-path="url(#${id})"><rect x="3" y="0" width="3" height="20" fill="#A9C8E8"/><rect x="14" y="0" width="3" height="20" fill="#A9C8E8"/></g>`,
     'REI':`<path d="${p}" fill="#dc2626"/><defs><clipPath id="${id}"><path d="${p}"/></clipPath></defs><g clip-path="url(#${id})"><polygon points="0,0 6,0 20,14 20,20 14,20 0,6" fill="#87CEEB"/></g>`,
     'STR':`<path d="${p}" fill="#f4c430"/><text x="10" y="13" text-anchor="middle" font-size="9" font-weight="bold" fill="#1a1a1a">S</text>`,
     'W4H':`<path d="${p}" fill="#f4c430"/><defs><clipPath id="${id}"><path d="${p}"/></clipPath></defs><g clip-path="url(#${id})"><rect x="0" y="8" width="20" height="4" fill="#00CED1"/></g>`,

diff --git a/files/form-guide/2025-26-match-3-women.html b/files/form-guide/2025-26-match-3-women.html
@@ -331,7 +331,7 @@ const getClubVestSvg=(club)=>{
     'VAC':`<path d="${p}" fill="#fff"/><defs><clipPath id="${id}"><path d="${p}"/></clipPath></defs><g clip-path="url(#${id})"><rect x="0" y="8" width="20" height="3" fill="#1a1a1a"/></g>`,
     'SUR':`<path d="${p}" fill="#fff"/><defs><clipPath id="${id}"><path d="${p}"/></clipPath></defs><g clip-path="url(#${id})"><rect x="0" y="7" width="20" height="1" fill="#1a1a1a"/><rect x="0" y="8" width="20" height="3" fill="#3b82f6"/><rect x="0" y="11" width="20" height="1" fill="#1a1a1a"/></g>`,
     'MIT':`<path d="${p}" fill="#2563eb"/><defs><clipPath id="${id}"><path d="${p}"/></clipPath></defs><g clip-path="url(#${id})"><rect x="0" y="5" width="20" height="1.5" fill="#fff"/><rect x="0" y="8" width="20" height="3" fill="#fff"/><rect x="0" y="12.5" width="20" height="1.5" fill="#fff"/></g>`,
-    'DMV':`<path d="${p}" fill="#A52A2A"/><defs><clipPath id="${id}"><path d="${p}"/></clipPath></defs><g clip-path="url(#${id})"><rect x="3" y="0" width="3" height="20" fill="#fff"/><rect x="14" y="0" width="3" height="20" fill="#fff"/></g>`,
+    'DMV':`<path d="${p}" fill="#B82A5E"/><defs><clipPath id="${id}"><path d="${p}"/></clipPath></defs><g clip-path="url(#${id})"><rect x="3" y="0" width="3" height="20" fill="#A9C8E8"/><rect x="14" y="0" width="3" height="20" fill="#A9C8E8"/></g>`,
     'REI':`<path d="${p}" fill="#dc2626"/><defs><clipPath id="${id}"><path d="${p}"/></clipPath></defs><g clip-path="url(#${id})"><polygon points="0,0 6,0 20,14 20,20 14,20 0,6" fill="#87CEEB"/></g>`,
     'STR':`<path d="${p}" fill="#f4c430"/><text x="10" y="13" text-anchor="middle" font-size="9" font-weight="bold" fill="#1a1a1a">S</text>`,
     'W4H':`<path d="${p}" fill="#f4c430"/><defs><clipPath id="${id}"><path d="${p}"/></clipPath></defs><g clip-path="url(#${id})"><rect x="0" y="8" width="20" height="4" fill="#00CED1"/></g>`,

diff --git a/files/form-guide/2025-26-match-4-men.html b/files/form-guide/2025-26-match-4-men.html
@@ -331,7 +331,7 @@ const getClubVestSvg=(club)=>{
     'VAC':`<path d="${p}" fill="#fff"/><defs><clipPath id="${id}"><path d="${p}"/></clipPath></defs><g clip-path="url(#${id})"><rect x="0" y="8" width="20" height="3" fill="#1a1a1a"/></g>`,
     'SUR':`<path d="${p}" fill="#fff"/><defs><clipPath id="${id}"><path d="${p}"/></clipPath></defs><g clip-path="url(#${id})"><rect x="0" y="7" width="20" height="1" fill="#1a1a1a"/><rect x="0" y="8" width="20" height="3" fill="#3b82f6"/><rect x="0" y="11" width="20" height="1" fill="#1a1a1a"/></g>`,
     'MIT':`<path d="${p}" fill="#2563eb"/><defs><clipPath id="${id}"><path d="${p}"/></clipPath></defs><g clip-path="url(#${id})"><rect x="0" y="5" width="20" height="1.5" fill="#fff"/><rect x="0" y="8" width="20" height="3" fill="#fff"/><rect x="0" y="12.5" width="20" height="1.5" fill="#fff"/></g>`,
-    'DMV':`<path d="${p}" fill="#A52A2A"/><defs><clipPath id="${id}"><path d="${p}"/></clipPath></defs><g clip-path="url(#${id})"><rect x="3" y="0" width="3" height="20" fill="#fff"/><rect x="14" y="0" width="3" height="20" fill="#fff"/></g>`,
+    'DMV':`<path d="${p}" fill="#B82A5E"/><defs><clipPath id="${id}"><path d="${p}"/></clipPath></defs><g clip-path="url(#${id})"><rect x="3" y="0" width="3" height="20" fill="#A9C8E8"/><rect x="14" y="0" width="3" height="20" fill="#A9C8E8"/></g>`,
     'REI':`<path d="${p}" fill="#dc2626"/><defs><clipPath id="${id}"><path d="${p}"/></clipPath></defs><g clip-path="url(#${id})"><polygon points="0,0 6,0 20,14 20,20 14,20 0,6" fill="#87CEEB"/></g>`,
     'STR':`<path d="${p}" fill="#f4c430"/><text x="10" y="13" text-anchor="middle" font-size="9" font-weight="bold" fill="#1a1a1a">S</text>`,
     'W4H':`<path d="${p}" fill="#f4c430"/><defs><clipPath id="${id}"><path d="${p}"/></clipPath></defs><g clip-path="url(#${id})"><rect x="0" y="8" width="20" height="4" fill="#00CED1"/></g>`,

diff --git a/files/form-guide/2025-26-match-4-women.html b/files/form-guide/2025-26-match-4-women.html
@@ -331,7 +331,7 @@ const getClubVestSvg=(club)=>{
     'VAC':`<path d="${p}" fill="#fff"/><defs><clipPath id="${id}"><path d="${p}"/></clipPath></defs><g clip-path="url(#${id})"><rect x="0" y="8" width="20" height="3" fill="#1a1a1a"/></g>`,
     'SUR':`<path d="${p}" fill="#fff"/><defs><clipPath id="${id}"><path d="${p}"/></clipPath></defs><g clip-path="url(#${id})"><rect x="0" y="7" width="20" height="1" fill="#1a1a1a"/><rect x="0" y="8" width="20" height="3" fill="#3b82f6"/><rect x="0" y="11" width="20" height="1" fill="#1a1a1a"/></g>`,
     'MIT':`<path d="${p}" fill="#2563eb"/><defs><clipPath id="${id}"><path d="${p}"/></clipPath></defs><g clip-path="url(#${id})"><rect x="0" y="5" width="20" height="1.5" fill="#fff"/><rect x="0" y="8" width="20" height="3" fill="#fff"/><rect x="0" y="12.5" width="20" height="1.5" fill="#fff"/></g>`,
-    'DMV':`<path d="${p}" fill="#A52A2A"/><defs><clipPath id="${id}"><path d="${p}"/></clipPath></defs><g clip-path="url(#${id})"><rect x="3" y="0" width="3" height="20" fill="#fff"/><rect x="14" y="0" width="3" height="20" fill="#fff"/></g>`,
+    'DMV':`<path d="${p}" fill="#B82A5E"/><defs><clipPath id="${id}"><path d="${p}"/></clipPath></defs><g clip-path="url(#${id})"><rect x="3" y="0" width="3" height="20" fill="#A9C8E8"/><rect x="14" y="0" width="3" height="20" fill="#A9C8E8"/></g>`,
     'REI':`<path d="${p}" fill="#dc2626"/><defs><clipPath id="${id}"><path d="${p}"/></clipPath></defs><g clip-path="url(#${id})"><polygon points="0,0 6,0 20,14 20,20 14,20 0,6" fill="#87CEEB"/></g>`,
     'STR':`<path d="${p}" fill="#f4c430"/><text x="10" y="13" text-anchor="middle" font-size="9" font-weight="bold" fill="#1a1a1a">S</text>`,
     'W4H':`<path d="${p}" fill="#f4c430"/><defs><clipPath id="${id}"><path d="${p}"/></clipPath></defs><g clip-path="url(#${id})"><rect x="0" y="8" width="20" height="4" fill="#00CED1"/></g>`,

diff --git a/files/form-guide/2026-27-match-1-women.html b/files/form-guide/2026-27-match-1-women.html
@@ -332,7 +332,7 @@ const getClubVestSvg=(club)=>{
     'VAC':`<path d="${p}" fill="#fff"/><defs><clipPath id="${id}"><path d="${p}"/></clipPath></defs><g clip-path="url(#${id})"><rect x="0" y="8" width="20" height="3" fill="#1a1a1a"/></g>`,
     'SUR':`<path d="${p}" fill="#fff"/><defs><clipPath id="${id}"><path d="${p}"/></clipPath></defs><g clip-path="url(#${id})"><rect x="0" y="7" width="20" height="1" fill="#1a1a1a"/><rect x="0" y="8" width="20" height="3" fill="#3b82f6"/><rect x="0" y="11" width="20" height="1" fill="#1a1a1a"/></g>`,
     'MIT':`<path d="${p}" fill="#2563eb"/><defs><clipPath id="${id}"><path d="${p}"/></clipPath></defs><g clip-path="url(#${id})"><rect x="0" y="5" width="20" height="1.5" fill="#fff"/><rect x="0" y="8" width="20" height="3" fill="#fff"/><rect x="0" y="12.5" width="20" height="1.5" fill="#fff"/></g>`,
-    'DMV':`<path d="${p}" fill="#A52A2A"/><defs><clipPath id="${id}"><path d="${p}"/></clipPath></defs><g clip-path="url(#${id})"><rect x="3" y="0" width="3" height="20" fill="#fff"/><rect x="14" y="0" width="3" height="20" fill="#fff"/></g>`,
+    'DMV':`<path d="${p}" fill="#B82A5E"/><defs><clipPath id="${id}"><path d="${p}"/></clipPath></defs><g clip-path="url(#${id})"><rect x="3" y="0" width="3" height="20" fill="#A9C8E8"/><rect x="14" y="0" width="3" height="20" fill="#A9C8E8"/></g>`,
     'REI':`<path d="${p}" fill="#dc2626"/><defs><clipPath id="${id}"><path d="${p}"/></clipPath></defs><g clip-path="url(#${id})"><polygon points="0,0 6,0 20,14 20,20 14,20 0,6" fill="#87CEEB"/></g>`,
     'STR':`<path d="${p}" fill="#f4c430"/><text x="10" y="13" text-anchor="middle" font-size="9" font-weight="bold" fill="#1a1a1a">S</text>`,
     'W4H':`<path d="${p}" fill="#f4c430"/><defs><clipPath id="${id}"><path d="${p}"/></clipPath></defs><g clip-path="url(#${id})"><rect x="0" y="8" width="20" height="4" fill="#00CED1"/></g>`,

diff --git a/tools/gen_portraits.py b/tools/gen_portraits.py
@@ -47,7 +47,7 @@ _MORE = {
     "AFD": ("#dc2626", '<rect x="14" y="0" width="3" height="20" fill="#fff"/><rect x="0" y="6" width="20" height="3" fill="#228b22"/>'),
     "SUR": ("#ffffff", '<rect x="0" y="7" width="20" height="1" fill="#1a1a1a"/><rect x="0" y="8" width="20" height="3" fill="#3b82f6"/><rect x="0" y="11" width="20" height="1" fill="#1a1a1a"/>'),
     "MIT": ("#2563eb", '<rect x="0" y="5" width="20" height="1.5" fill="#fff"/><rect x="0" y="8" width="20" height="3" fill="#fff"/><rect x="0" y="12.5" width="20" height="1.5" fill="#fff"/>'),
-    "DMV": ("#A52A2A", _sides("#fff")),
+    "DMV": ("#B82A5E", _sides("#A9C8E8")),  # raspberry with pale sky-blue side panels (matched to 2020s club photos)
     "W4H": ("#f4c430", '<rect x="0" y="8" width="20" height="4" fill="#00CED1"/>'),
     "K&P": ("#1E90FF", '<polygon points="8,0 20,0 20,20 0,20 0,8" fill="#1a1a1a"/><polygon points="0,0 8,0 20,12 20,20 12,20 0,8" fill="#fff"/>'),
     "S&D": ("#1e3a8a", '<rect x="0" y="8" width="20" height="3" fill="#f4c430"/>'),
